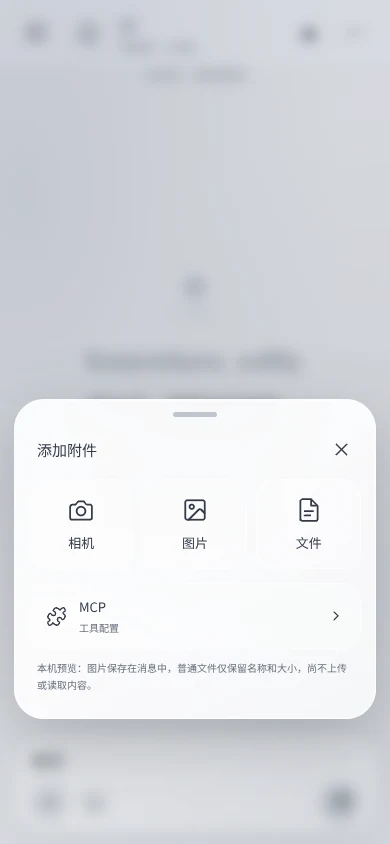
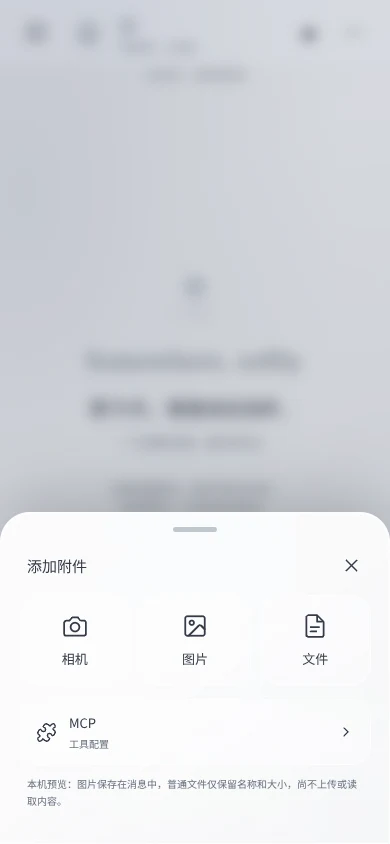
Match chat popups to a bottom drawer interaction
Slide attachment, expression and model sheets up from the bottom over the composer. Follow handle dragging, rebound short drags and animate dismissal while honoring reduced motion. Keep the glass appearance and blurred backdrop, with a bounded drawer width on desktop.

Verified syntax, 12 unit tests and browser interactions at 320–1280px widths, short viewports and dark mode. Update the actual UI preview.

diff --git a/src/app.js b/src/app.js
@@ -7,6 +7,7 @@ let state=loadState(storage), page='home', memoryFilter='all', memorySearch='', 
 const app=document.querySelector('#app'), nav=[['home','home','主页'],['chat','chat','对话'],['memory','memory','记忆'],['settings','settings','设置']];
 const opened=new Set();
 let sessionSearch='',oldestFirst=false;
+let visibleTray='',closingTray=false,dragStart=null;
 const sidebarDialog=document.createElement('dialog');sidebarDialog.id='sidebar-dialog';sidebarDialog.className='glass';sidebarDialog.setAttribute('aria-label','侧边栏');document.body.append(sidebarDialog);
 let chatUI={tray:'',tab:'kaomoji',filter:'all',attachments:[]},selection={start:0,end:0};
 const expressionDialog=document.createElement('dialog');expressionDialog.className='glass expression-dialog';document.body.append(expressionDialog);
@@ -163,10 +164,12 @@ expressionDialog.addEventListener('submit',e=>{e.preventDefault();const form=e.t
  if(!persist()){state.expressions=snapshot;return;}expressionDialog.close();render();notify('颜文字已保存。');
 });
 
-function syncTray(){const panel=app.querySelector('.chat-tray');if(!panel)return;for(const el of app.querySelectorAll('.chat-header,.messages,.composer-wrap'))el.inert=true;panel.focus({preventScroll:true});}
-function closeTray(){const previous=chatUI.tray;chatUI.tray='';render();app.querySelector(`[data-action="toggle-${previous}"]`)?.focus({preventScroll:true});}
+const trayMotion=()=>!matchMedia('(prefers-reduced-motion: reduce)').matches;
+function syncTray(){const panel=app.querySelector('.chat-tray');if(!panel){visibleTray='';closingTray=false;return;}for(const el of app.querySelectorAll('.chat-header,.messages,.composer-wrap'))el.inert=true;panel.focus({preventScroll:true});if(visibleTray!==chatUI.tray&&trayMotion())panel.animate([{transform:'translateY(100%)'},{transform:'translateY(0)'}],{duration:280,easing:'cubic-bezier(.2,.8,.2,1)'});visibleTray=chatUI.tray;}
+async function closeTray(){if(closingTray)return;const previous=chatUI.tray,panel=app.querySelector('.chat-tray');closingTray=true;if(panel&&trayMotion()){const from=panel.style.transform||'translateY(0)';await panel.animate([{transform:from},{transform:'translateY(100%)'}],{duration:200,easing:'ease-in',fill:'forwards'}).finished.catch(()=>{});}if(panel&&app.querySelector('.chat-tray')!==panel){closingTray=false;return;}chatUI.tray='';render();app.querySelector(`[data-action="toggle-${previous}"]`)?.focus({preventScroll:true});}
 app.addEventListener('keydown',e=>{const panel=app.querySelector('.chat-tray');if(!panel||e.key!=='Tab')return;const nodes=[...panel.querySelectorAll('button:not(:disabled),input,textarea')];const first=nodes[0],last=nodes.at(-1);if(e.shiftKey&&(document.activeElement===first||document.activeElement===panel)){e.preventDefault();last?.focus();}else if(!e.shiftKey&&document.activeElement===last){e.preventDefault();first?.focus();}});
-let dragStart=null;
-app.addEventListener('pointerdown',e=>{const handle=e.target.closest('.tray-handle');if(!handle)return;dragStart={y:e.clientY,id:e.pointerId};handle.setPointerCapture(e.pointerId);});
-app.addEventListener('pointerup',e=>{if(!dragStart||e.pointerId!==dragStart.id)return;const delta=e.clientY-dragStart.y;dragStart=null;if(delta>55)closeTray();});
-app.addEventListener('pointercancel',()=>{dragStart=null;});
+function resetTrayDrag(panel){if(!panel)return;const from=panel.style.transform;panel.style.transform='';if(from&&trayMotion())panel.animate([{transform:from},{transform:'translateY(0)'}],{duration:220,easing:'cubic-bezier(.2,.8,.2,1)'});}
+app.addEventListener('pointerdown',e=>{const handle=e.target.closest('.tray-handle');if(!handle||closingTray)return;const panel=handle.closest('.chat-tray');panel.getAnimations().forEach(a=>a.cancel());dragStart={y:e.clientY,id:e.pointerId,panel};handle.setPointerCapture(e.pointerId);});
+app.addEventListener('pointermove',e=>{if(!dragStart||e.pointerId!==dragStart.id)return;const delta=e.clientY-dragStart.y;dragStart.panel.style.transform=`translateY(${delta<0?Math.max(-32,delta*.2):delta}px)`;});
+app.addEventListener('pointerup',e=>{if(!dragStart||e.pointerId!==dragStart.id)return;const {y,panel}=dragStart;dragStart=null;if(e.clientY-y>70)closeTray();else resetTrayDrag(panel);});
+app.addEventListener('pointercancel',()=>{resetTrayDrag(dragStart?.panel);dragStart=null;});

diff --git a/src/style.css b/src/style.css
@@ -38,9 +38,9 @@ button:active:not(:disabled){transform:scale(.97)}
 @media(max-width:380px){.conversations-view{padding:0 12px}.conversation-actions button{width:28px}.sidebar-profile{padding-left:16px;padding-right:12px}}
 @media(max-height:500px){.sidebar-profile{padding-top:12px;padding-bottom:10px}.sidebar-nav{gap:0;padding-bottom:8px}.sidebar-nav>button{padding-top:7px;padding-bottom:7px;min-height:36px}.sidebar-conversations{padding-top:10px}.sidebar-footer{padding:8px 18px}.sidebar-footer>button{min-height:40px}}
 
-/* Floating sheets stay above the composer and blur the page behind them. */
-.tray-backdrop{position:absolute;inset:0;z-index:20;background:rgb(20 27 40 / .12);backdrop-filter:blur(7px);-webkit-backdrop-filter:blur(7px);cursor:default}.chat-view>.chat-tray{position:absolute;left:14px;right:14px;bottom:calc(var(--composer-height,110px) + 8px);z-index:21;max-height:min(440px,calc(100% - var(--composer-height,110px) - 22px));background-color:rgb(var(--glass-tint) / .9);border-radius:30px;padding:0 14px 15px;box-shadow:0 22px 65px rgb(16 22 34 / .22),inset 0 1px 1px var(--glass-glint)}.tray-handle{height:29px;display:grid;place-items:center;touch-action:none;cursor:grab}.tray-handle>span{display:block;width:44px;height:5px;border-radius:9px;background:rgb(var(--tint) / .45)}.chat-tray:focus{outline:none}.chat-tray .expression-grid{max-height:270px}.attachment-options{display:grid;grid-template-columns:repeat(3,minmax(0,1fr));gap:9px;margin:10px 0 14px}.attachment-options button{display:flex;flex-direction:column;justify-content:center;gap:10px;min-height:90px;border:1px solid var(--line);border-radius:20px;padding:12px 5px;background:rgb(var(--glass-tint) / .3)}.attachment-options svg{width:26px;height:26px}.mcp-entry{display:flex;align-items:center;gap:12px;width:100%;padding:13px 16px;border:1px solid var(--line);border-radius:19px;background:rgb(var(--glass-tint) / .25);text-align:left}.mcp-entry>span{display:grid;gap:4px;flex:1;font-size:13px}.mcp-entry small{color:var(--muted);font-size:10px}.mcp-entry>svg:last-child{width:16px;height:16px}.chat-tray .hint{font-size:10px;line-height:1.7}
-@media(min-width:701px){.chat-view>.chat-tray{left:36px;right:36px}}
-@media(max-width:380px){.chat-view>.chat-tray{left:10px;right:10px}}
+/* Bottom sheets cover the composer and blur the page behind them. */
+.tray-backdrop{position:absolute;inset:0;z-index:20;background:rgb(20 27 40 / .12);backdrop-filter:blur(7px);-webkit-backdrop-filter:blur(7px);cursor:default}.chat-view>.chat-tray{position:absolute;left:0;right:0;bottom:0;z-index:21;max-height:calc(100% - 64px);background-color:rgb(var(--glass-tint) / .9);border-radius:30px 30px 0 0;padding:0 18px calc(24px + env(safe-area-inset-bottom));box-shadow:0 -12px 65px rgb(16 22 34 / .22),inset 0 1px 1px var(--glass-glint)}.tray-handle{height:32px;display:grid;place-items:center;touch-action:none;cursor:grab}.tray-handle>span{display:block;width:44px;height:5px;border-radius:9px;background:rgb(var(--tint) / .45)}.chat-tray:focus{outline:none}.chat-tray .expression-grid{max-height:270px}.attachment-options{display:grid;grid-template-columns:repeat(3,minmax(0,1fr));gap:9px;margin:10px 0 14px}.attachment-options button{display:flex;flex-direction:column;justify-content:center;gap:10px;min-height:90px;border:1px solid var(--line);border-radius:20px;padding:12px 5px;background:rgb(var(--glass-tint) / .3)}.attachment-options svg{width:26px;height:26px}.mcp-entry{display:flex;align-items:center;gap:12px;width:100%;padding:13px 16px;border:1px solid var(--line);border-radius:19px;background:rgb(var(--glass-tint) / .25);text-align:left}.mcp-entry>span{display:grid;gap:4px;flex:1;font-size:13px}.mcp-entry small{color:var(--muted);font-size:10px}.mcp-entry>svg:last-child{width:16px;height:16px}.chat-tray .hint{font-size:10px;line-height:1.7}
+@media(min-width:701px){.chat-view>.chat-tray{left:max(24px,calc((100% - 560px)/2));right:max(24px,calc((100% - 560px)/2))}}
+@media(max-width:380px){.chat-view>.chat-tray{padding-left:12px;padding-right:12px}}
 @media(max-height:550px){.attachment-options button{min-height:65px}.chat-tray .expression-grid{max-height:160px}}
 .tray-backdrop:hover,.tray-backdrop:active{transform:none!important;filter:none!important}

diff --git a/README.md b/README.md
@@ -72,4 +72,4 @@ npm test
 
 对话页左上角打开侧边栏；上方显示用户头像与昵称，提供「对话、主页、记忆、设置」入口，下方分为置顶聊天和历史对话，底部固定新建按钮。点击「对话」进入完整会话列表，可以按标题或消息正文搜索、切换时间排序、置顶、重命名和删除；置顶始终排在前面并随备份保存。侧栏可通过收起按钮、遮罩或 Escape 关闭。对话页和完整会话列表隐藏底栏，其他页面保留底栏导航。
 
-附件、表情收藏与模型选择面板使用输入框上方的浮层，背景模糊并暂时不可交互；可点遮罩、关闭按钮、Escape 或从拖拽条向下拖动收起。选中颜文字或图片表情后返回输入框继续编辑。附件面板增加相机入口（在支持的手机浏览器中请求拍摄，桌面浏览器可能使用文件选择器）和 MCP 配置入口。
+附件、表情收藏与模型选择面板使用从屏幕底部升起的抽屉窗口，覆盖输入框，背景模糊并暂时不可交互；可点遮罩、关闭按钮、Escape 或从拖拽条向下拖动收起（面板随手指移动，短距离拖动会回弹；遵循系统减少动态效果设置）。选中颜文字或图片表情后返回输入框继续编辑。附件面板增加相机入口（在支持的手机浏览器中请求拍摄，桌面浏览器可能使用文件选择器）和 MCP 配置入口。
